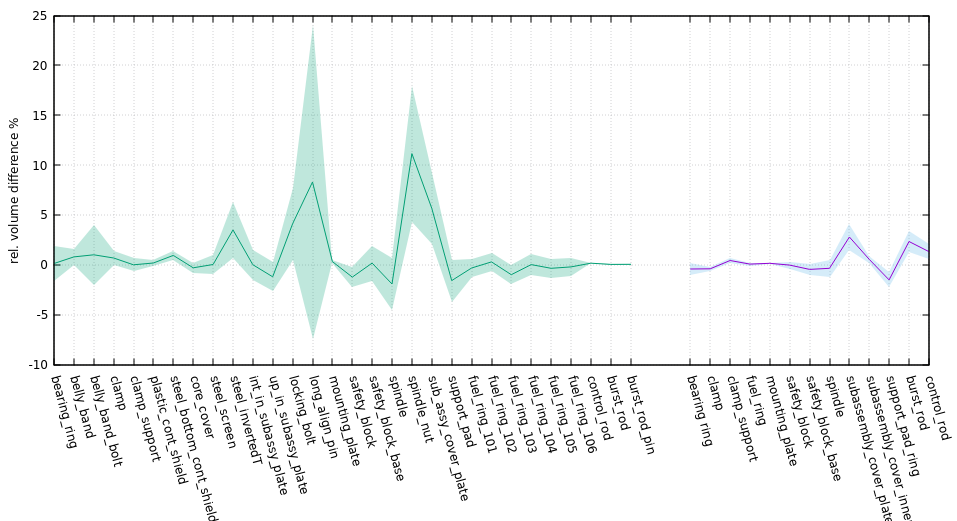
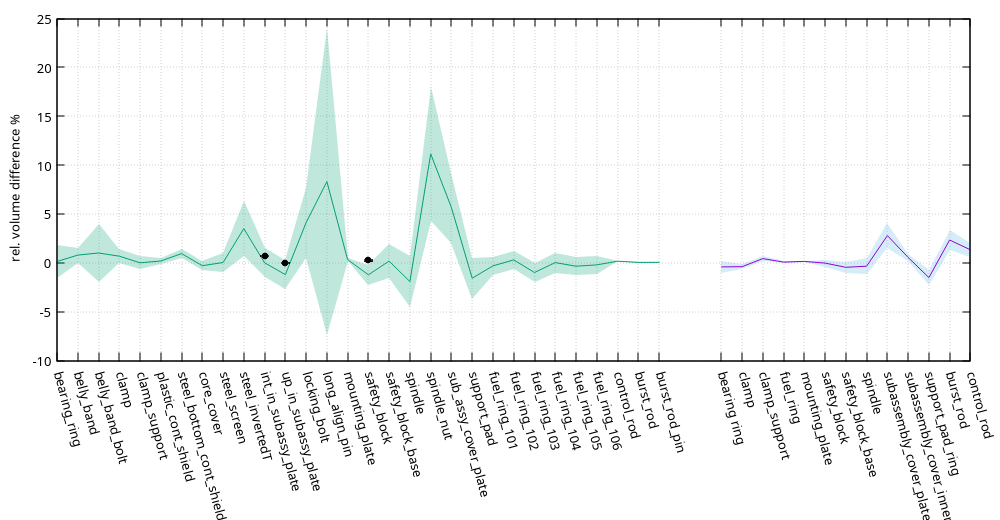
add CSG-volumen calculations

diff --git a/paper.md b/paper.md
@@ -202,7 +202,7 @@ at 120 deg. offset. Additionally the core has three vertical holes (similarly
 by vertical actuators. The rods themselves are similar in composition to the
 fuel elements.
 
-The benchmark includes 5 cases, which differ in terms of control- and burst-rod positions.
+The benchmark includes 5 experimental cases, which differ in terms of control- and burst-rod positions.
 Also there are 3 geometries described:
 1. detailed model which includes as built things (curved clamp etc.),
 2. simplified model, where all surfaces are along principal axis, all corners 90 deg. etc., and
@@ -216,15 +216,15 @@ Corresponding to \autoref{fig:GIV_CAD}, \autoref{fig:GIV_meshed} show the discre
 
 ![Discretized Godiva IV-models, detailed (left) and simplified (right) versions.\label{fig:GIV_meshed}](figs/both_meshed.pdf){#GIV_meshed width=50%}
 
-![Part-by-part comparison between volume calculations using stochastic volume estimation in OpenMC compared with direct volume calculations reported by CAD-software for the detailed model (green) and simplified benchmark model (magneta). The indictated intervals are the compuational error margins, almost exclusively stemming from the estimated error in the stochastic volume computation.\label{fig:voldiff}](figs/both_rel_voldiff.png)
+![Part-by-part comparison between volume calculations using stochastic volume estimation in OpenMC compared with direct volume calculations reported by CAD-software for the detailed model (green) and simplified benchmark model (magneta). The indicated intervals are the compuational error margins, almost exclusively stemming from the estimated error in the stochastic volume computation. The additional black circles denote the relative difference between the extracted benchmark CSG-model (as computed by stochastic volume-runs in OpenMC) and the CAD-model.\label{fig:voldiff}](figs/both_rel_voldiff.png)
 
 Figure \ref{fig:voldiff} shows
 differences in volumes between the discretized models and the exact CAD-model
 for the various objects making up the parts. Volumes have been calculated using
 a built-in feature of our CAD-package, whereas volumes from the discretized models have
 been computed using the stochastic volume computation feature of OpenMC
-[@openmc_2013]. In the latter case volumes are being computed by sampling a
-number of points within a set boundary, while recording volume each point falls
+[@openmc_2013]. In the latter case volumes are being computed by sampling a (large)
+number of points within a set boundary, while recording which volume each point falls
 within. The precision of the algorithm is directly governed by the number of
 points sampled, meaning a direct dependence on run time. In practice, the
 calculation can be run to an arbitrary set target tolerance.
@@ -234,7 +234,10 @@ of a reactor than do small boundary changes (with constant volume). Hence, this
 is a useful measure for performance. Notably the errors found (fig. \ref{fig:voldiff}) are dominated by
 the error in the stochastic volume estimator, not the volume error itself. This
 is evidenced by the very small error in burst- and control-rod volume for the
-detailed model, which were run with smaller tolerances.
+detailed model, which were run with smaller tolerances. Additionally, we have used the benchmark CSG-model
+to verify a few volumes in the detailed model. A CSG-model generally yields shorter runtimes, which allows tighter
+tolerance while also remaining practical. Notably, the CSG-benchmark deviates slightly from the CAD-model constructed
+from drawings, suggesting there is an underlying discrepancy internally in the benchmark, which may have to be addressed.
 
 The 5 cases considered, each have different settings for the control- and
 burst-rods (see tables \ref{tab_bm_giv_rod_pos} and \ref{tab_det_giv_rod_pos}).
